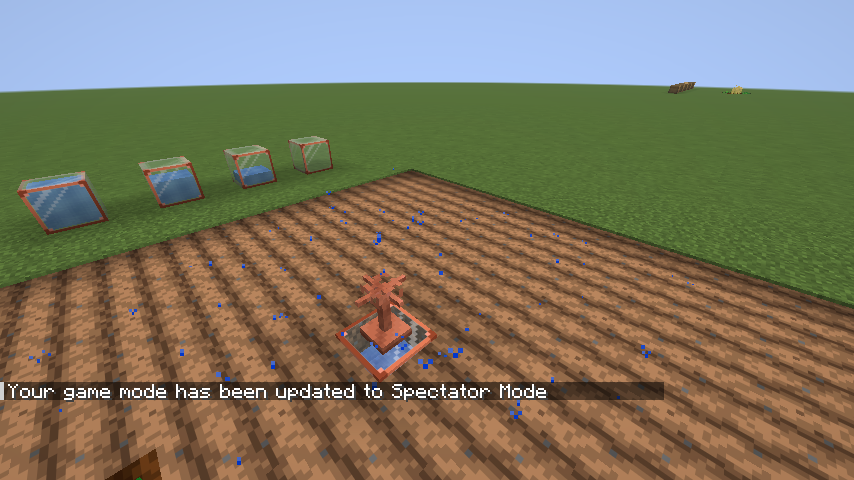
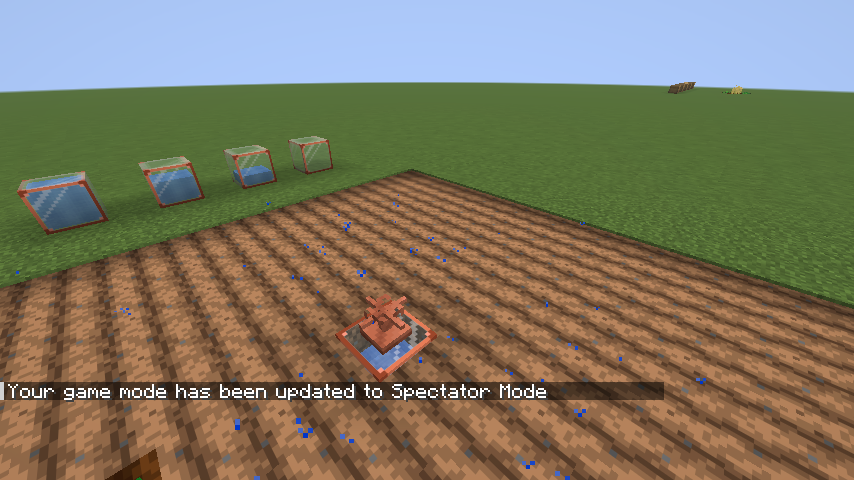
doc: describe stacked tanks and refresh screenshots

diff --git a/README.md b/README.md
@@ -41,9 +41,9 @@ tank and the sprinkler are new blocks). For a LAN game, both players put the jar
 Applies to wheat, carrots, potatoes, beetroots, torchflowers, pitcher plants and melon and pumpkin stems (on stems,
 also to growing the fruit). Quality and right-click harvest are for wheat, carrots, potatoes and beetroots.
 
-| Water tanks, from full to empty | An excellent wheat sparkling |
+| Water tanks: a column of four, and single ones from full to empty | An excellent wheat sparkling |
 | --- | --- |
-| ![Four water tanks with copper corners, holding different amounts of water](docs/images/tanks.png) | ![Ripe wheat with golden sparkles, next to five beehives](docs/images/excellent-wheat.png) |
+| ![A tall column of four water tanks half full, next to four single tanks with different amounts of water](docs/images/tanks.png) | ![Ripe wheat with golden sparkles, next to five beehives](docs/images/excellent-wheat.png) |
 
 ## Growth
 
@@ -91,6 +91,9 @@ at crop height.
 - **Water tank.** Glass with copper corners. Right-click with a water bucket to add one day of watering; it holds 5
   buckets (5 in-game days, about 1h40 of play). You can see the water go down inside the glass, and a comparator
   reads the level.
+- **Stack tanks for more water.** Tanks placed on top of each other become one tall tank, with no height limit: the
+  copper frame only goes around the whole column, each block adds 5 buckets, and a bucket on any block fills the
+  column from the bottom. Dig the column down under your field to hide the extra capacity.
 - **Sprinkler.** With water in the tank below, it waters a 9×9 square (one block up or down too): it counts as rain
   for growth and quality and keeps the farmland wet. It sprays water in a spiral.
 - **Turns off in the rain** and uses no water while off. Inside a glass greenhouse it never gets rain, so it stays on.
@@ -132,6 +135,9 @@ your `logs/latest.log` and what `/bvc` says about the crop.
 - **Sprinklers** add themselves to an in-memory index when their block entity loads and leave it when it unloads, so
   a crop or farmland asks "is a working sprinkler near me?" without scanning blocks. Water use follows the day clock,
   so a night skipped in bed is charged at once.
+- **Tank columns** have no controller block: every tank keeps its own water, buckets fill from the bottom up and the
+  sprinkler drinks from the top down, so the water always rests at the bottom. Breaking a tank in the middle splits
+  the column and only that block's water is lost.
 
 ## Building from source
 
@@ -148,7 +154,7 @@ beehives, an excellent field and a sprinkler on dry farmland. It checks the mult
 rain, grows crops from seed, harvests with right-click, checks drops, water use, a skipped night and the sprinkler
 turning off in the rain. Screenshots go to `build/run/clientGameTest/screenshots`.
 
-The water tank textures and its 16 models (one per water height) come from `tools/GenAssets.java`:
+The water tank textures and its 64 models (water height × tank above × tank below) come from `tools/GenAssets.java`:
 
 ```bash
 java tools/GenAssets.java

diff --git a/CHANGELOG.md b/CHANGELOG.md
@@ -8,5 +8,5 @@
   extra product and excellent gives two. Excellent crops sparkle when ripe.
 - Right-click a ripe crop to harvest and replant it.
 - Water tank and sprinkler: the sprinkler waters a 9×9 field like rain and keeps the farmland wet, using water
-  from the tank below.
+  from the tank below. Stacked tanks join into one tall tank with no height limit.
 - `/bvc` shows what is affecting the crop you are looking at.
